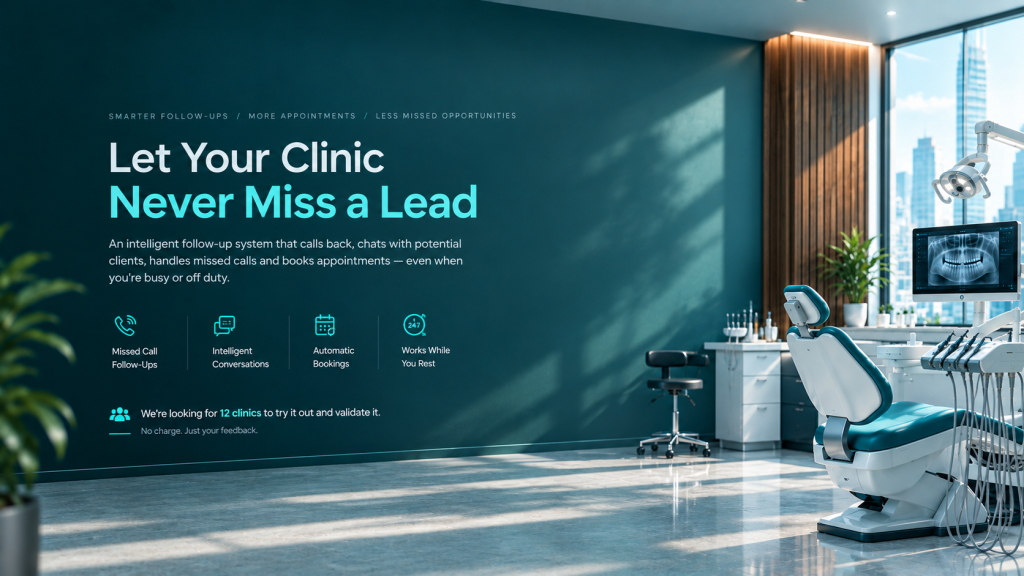
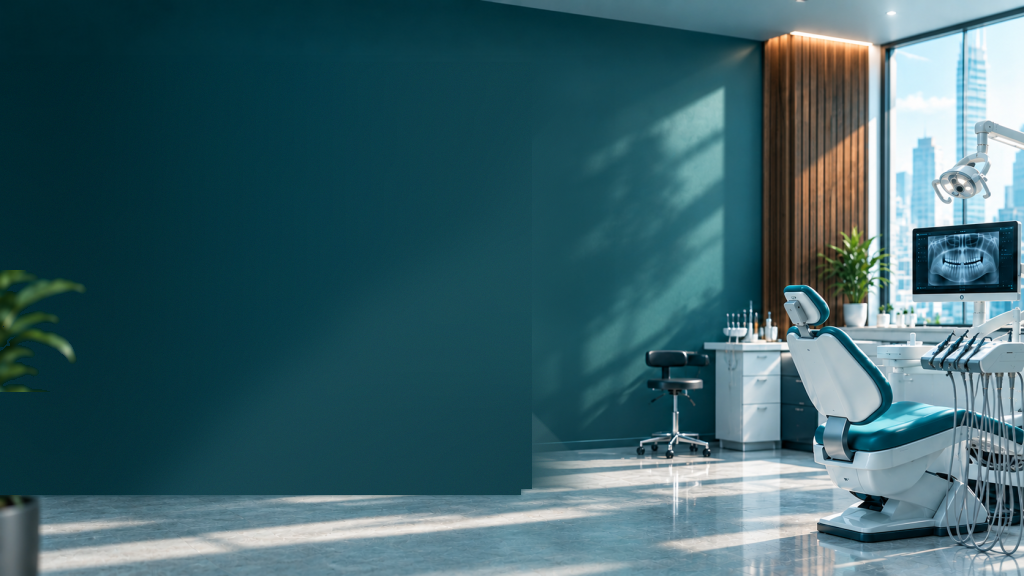
Turn the clinic hero copy into live HTML over a cleaned plate.
Cover the baked kicker, headline, icons, and founding offer on the teal wall, Lanczos-upscale the dental room, and overlay the same words as DOM — including the amber Get Started CTA to #pricing.

diff --git a/components/home-hero.tsx b/components/home-hero.tsx
@@ -1,7 +1,14 @@
 "use client";
 
 import Image from "next/image";
-import { ArrowRight } from "lucide-react";
+import {
+  ArrowRight,
+  CalendarCheck,
+  MessagesSquare,
+  PhoneCall,
+  RefreshCw,
+  Users,
+} from "lucide-react";
 
 import { analytics } from "@/lib/analytics";
 import type { IndustryId } from "@/lib/content";
@@ -9,7 +16,29 @@ import { amberCta } from "@/lib/ui";
 import { cn } from "@/lib/utils";
 
 const HERO_BLUR =
[2 lines of base64/hex data omitted]
+
+const FEATURES = [
+  { icon: PhoneCall, lines: ["Missed Call", "Follow-Ups"] },
+  { icon: MessagesSquare, lines: ["Intelligent", "Conversations"] },
+  { icon: CalendarCheck, lines: ["Automatic", "Bookings"] },
+] as const;
+
+function AlwaysOnIcon({ className }: { className?: string }) {
+  return (
+    <span
+      className={cn(
+        "relative inline-flex items-center justify-center text-hero-cyan",
+        className,
+      )}
+    >
+      <RefreshCw aria-hidden="true" className="size-full" strokeWidth={1.75} />
+      <span className="absolute text-[0.38em] font-bold leading-none tracking-tight">
+        24/7
+      </span>
+    </span>
+  );
+}
 
 function GetStarted({
   industry,
@@ -30,26 +59,153 @@ function GetStarted({
   );
 }
 
+function FeatureGrid({ overlay }: { overlay: boolean }) {
+  const itemClass = overlay
+    ? "flex min-w-0 flex-col items-start gap-1.5 text-[11px] font-medium leading-[1.25] text-white xl:text-[12px]"
+    : "flex min-w-0 flex-col items-start gap-1.5 text-[12px] font-medium leading-[1.25] text-white";
+  const iconClass = overlay
+    ? "size-[1.35rem] text-hero-cyan xl:size-7"
+    : "size-7 text-hero-cyan";
+
+  return (
+    <ul
+      className={cn(
+        "grid grid-cols-4",
+        overlay ? "gap-x-2 xl:gap-x-3" : "gap-x-3",
+      )}
+    >
+      {FEATURES.map(({ icon: Icon, lines }, i) => (
+        <li
+          key={lines.join(" ")}
+          className={cn(itemClass, i > 0 && "border-l border-white/20 pl-2.5 xl:pl-3")}
+        >
+          <Icon aria-hidden="true" className={iconClass} strokeWidth={1.75} />
+          <span>
+            {lines[0]}
+            <br />
+            {lines[1]}
+          </span>
+        </li>
+      ))}
+      <li className={cn(itemClass, "border-l border-white/20 pl-2.5 xl:pl-3")}>
+        <AlwaysOnIcon className={iconClass} />
+        <span>
+          Works While
+          <br />
+          You Rest
+        </span>
+      </li>
+    </ul>
+  );
+}
+
+function HeroCopy({
+  industry,
+  overlay,
+}: {
+  industry: IndustryId;
+  overlay: boolean;
+}) {
+  return (
+    <div className={cn("text-left", overlay ? "w-full" : "max-w-xl")}>
+      <p
+        className={cn(
+          "font-normal uppercase text-white/70",
+          overlay
+            ? "text-[9.5px] tracking-[0.16em] xl:text-[11px] xl:tracking-[0.2em]"
+            : "text-[10px] tracking-[0.16em] sm:text-[11px] sm:tracking-[0.2em]",
+        )}
+      >
+        Smarter Follow-Ups / More Appointments / Less Missed Opportunities
+      </p>
+      <p
+        className={cn(
+          "font-extrabold tracking-[-0.02em] text-white",
+          overlay
+            ? "mt-2.5 text-[clamp(1.7rem,3.6vw,3.05rem)] leading-[1.08] xl:mt-3"
+            : "mt-3 text-[32px] leading-[1.1] sm:text-[40px]",
+        )}
+      >
+        <span className="block">Let Your Clinic</span>
+        <span className="block text-hero-cyan [text-shadow:0_0_28px_rgb(46_230_224/0.35)]">
+          Never Miss a Lead
+        </span>
+      </p>
+      <p
+        className={cn(
+          "max-w-[46ch] text-white",
+          overlay
+            ? "mt-3 text-[13px] leading-[1.5] xl:mt-3.5 xl:text-[15.5px] xl:leading-[1.55]"
+            : "mt-4 text-[15px] leading-[1.55] sm:text-[16.5px]",
+        )}
+      >
+        An intelligent follow-up system that calls back, chats with potential
+        clients, handles missed calls and books appointments — even when
+        you&apos;re busy or off duty.
+      </p>
+      <div className={overlay ? "mt-4 xl:mt-5" : "mt-6"}>
+        <FeatureGrid overlay={overlay} />
+      </div>
+      <div
+        className={cn(
+          "flex items-start gap-2.5",
+          overlay ? "mt-4 xl:mt-5" : "mt-6",
+        )}
+      >
+        <Users
+          aria-hidden="true"
+          className={cn(
+            "shrink-0 text-hero-cyan",
+            overlay ? "mt-0.5 size-5 xl:size-6" : "mt-0.5 size-6",
+          )}
+          strokeWidth={1.75}
+        />
+        <p
+          className={cn(
+            "text-white",
+            overlay
+              ? "text-[12.5px] leading-[1.45] xl:text-[14.5px]"
+              : "text-[14.5px] leading-[1.5]",
+          )}
+        >
+          We&apos;re looking for{" "}
+          <span className="font-bold text-hero-cyan">12 clinics</span> to try it
+          out and validate it.
+          <span
+            className={cn(
+              "mt-0.5 block text-white/70",
+              overlay ? "text-[11.5px] xl:text-[13px]" : "text-[13px]",
+            )}
+          >
+            No charge. Just your feedback.
+          </span>
+        </p>
+      </div>
+      <GetStarted
+        industry={industry}
+        className={overlay ? "mt-4 xl:mt-5" : "mt-6 min-h-11"}
+      />
+    </div>
+  );
+}
+
 export function HomeHero({ industry }: { industry: IndustryId }) {
   return (
     <section
       id="home"
       className="relative isolate overflow-x-clip bg-[#071c1e] text-white"
     >
-      <h1 className="sr-only">
-        Let Your Clinic Never Miss a Lead — Veltan clinic follow-up
-      </h1>
-
+      <h1 className="sr-only">Let Your Clinic Never Miss a Lead</h1>
       {/*
-        Mobile: sit the 16:9 still below the two-row header so baked copy
-        stays visible. Desktop: full-bleed 16:9 with the site header overlaid
-        on the empty teal at the top of the plate.
+        Mobile: 16:9 clinic plate under the two-row header, then the same
+        HTML stack (kicker through Get Started). Desktop: full-bleed 16:9
+        with live copy on the teal wall.
       */}
       <div className="pt-[7.75rem] lg:pt-0">
         <div className="relative aspect-[16/9] w-full bg-[#071c1e]">
           <Image
-            src="/brand/hero-dental-clinic.png"
-            alt="Modern dental clinic treatment room. Headline: Let Your Clinic Never Miss a Lead."
+            src="/brand/hero-dental-clinic.jpg"
+            alt="Modern dental clinic treatment room with a teal chair, panoramic X-ray, and city skyline"
             fill
             preload
             quality={90}
@@ -58,14 +214,15 @@ export function HomeHero({ industry }: { industry: IndustryId }) {
             sizes="100vw"
             className="object-contain object-center"
           />
-          <GetStarted
-            industry={industry}
-            className="absolute top-[74%] left-[10.8%] z-10 hidden lg:inline-flex"
-          />
+          <div className="absolute inset-0 z-10 hidden lg:flex">
+            <div className="flex h-full w-[52%] flex-col justify-start pl-[5.8%] pr-5 pt-[16.5%] pb-[10%]">
+              <HeroCopy industry={industry} overlay />
+            </div>
+          </div>
         </div>
 
-        <div className="flex justify-start px-5 py-5 sm:px-8 lg:hidden">
-          <GetStarted industry={industry} />
+        <div className="px-5 py-6 sm:px-8 lg:hidden">
+          <HeroCopy industry={industry} overlay={false} />
         </div>
       </div>
     </section>
